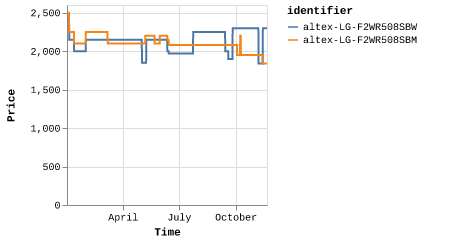
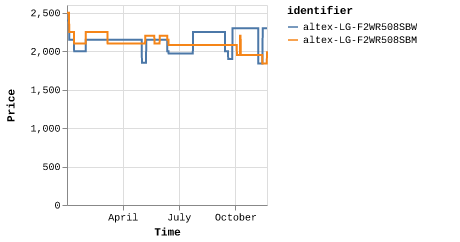
Latest scraping spalat: Thu Nov 21 04:45:08 UTC 2024

Changed region(s): [[0.4565, 0.0289, 0.6087, 0.9256], [0.3043, 0.2025, 0.3348, 0.2603], [0.3957, 0.8967, 0.4261, 0.9256]]

diff --git a/scrapes/spalat/altex-LG-F2WR508SBM.md b/scrapes/spalat/altex-LG-F2WR508SBM.md
@@ -1,3 +1,3 @@
-1839
+1999
 
 [Source](https://altex.ro/masina-de-spalat-rufe-frontala-slim-lg-f2wr508sbm-steam-8-kg-1200rpm-clasa-a-negru/cpd/MSFF2WR508SBM/)
